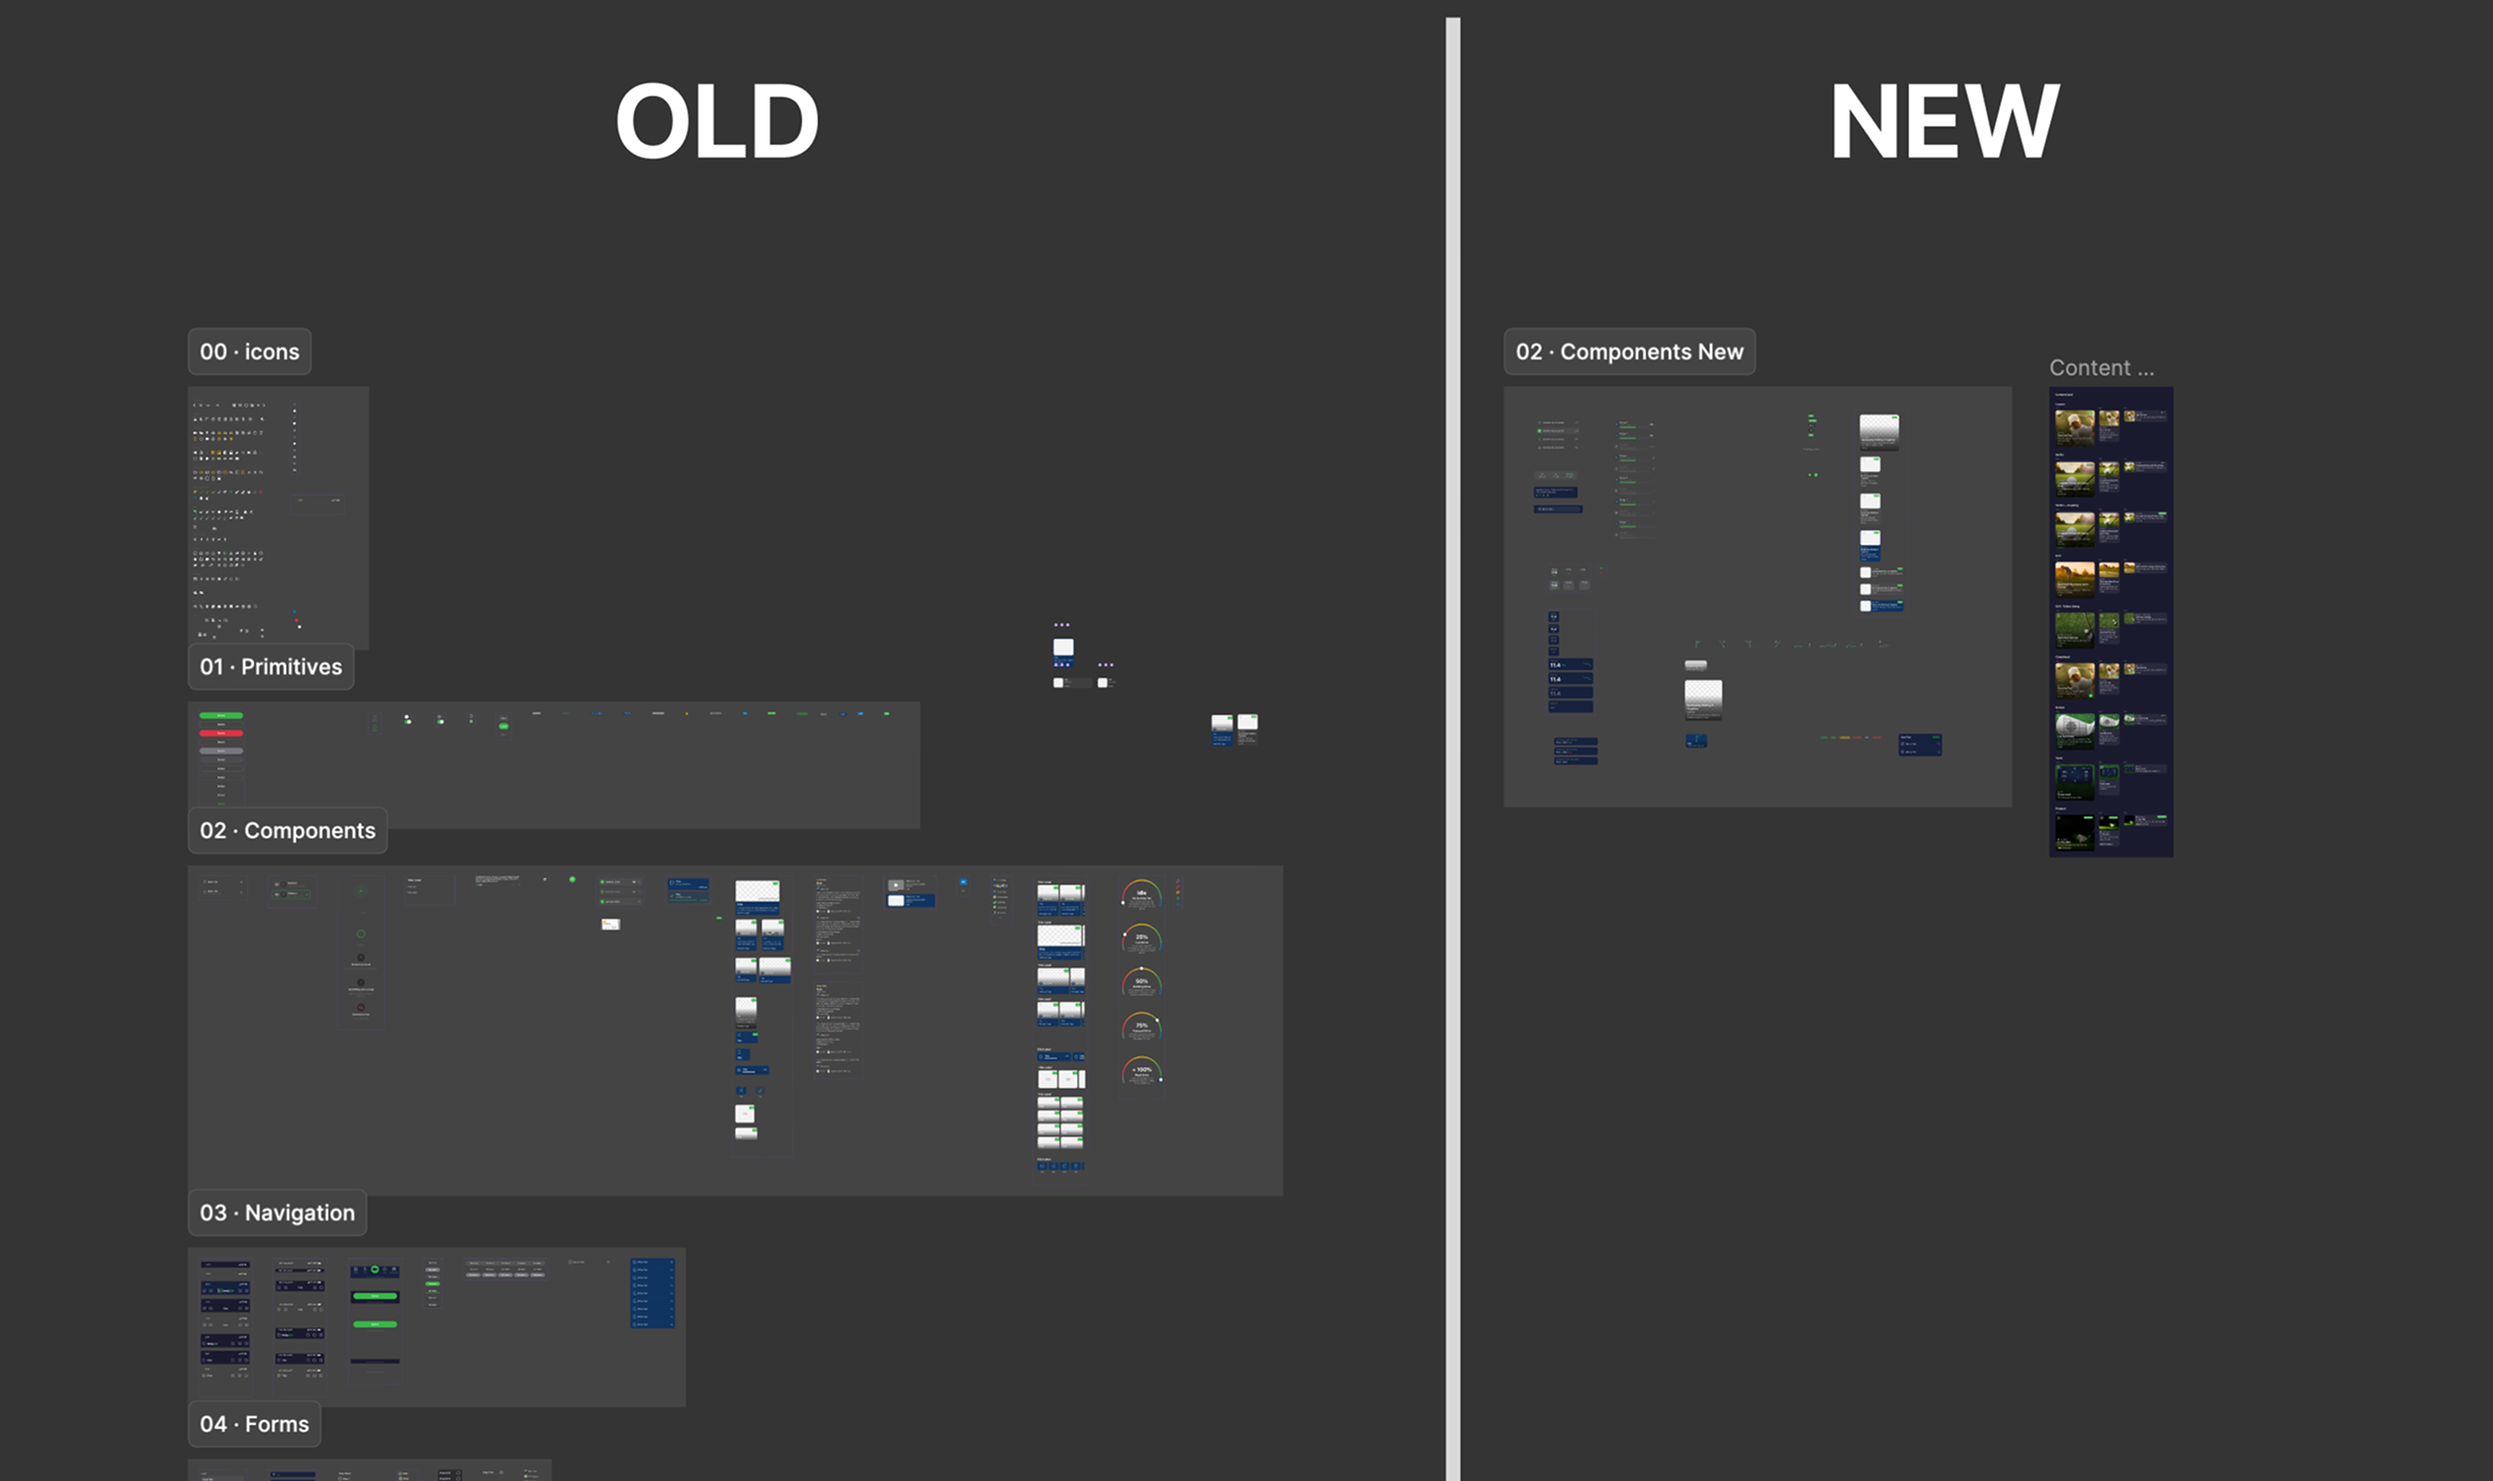
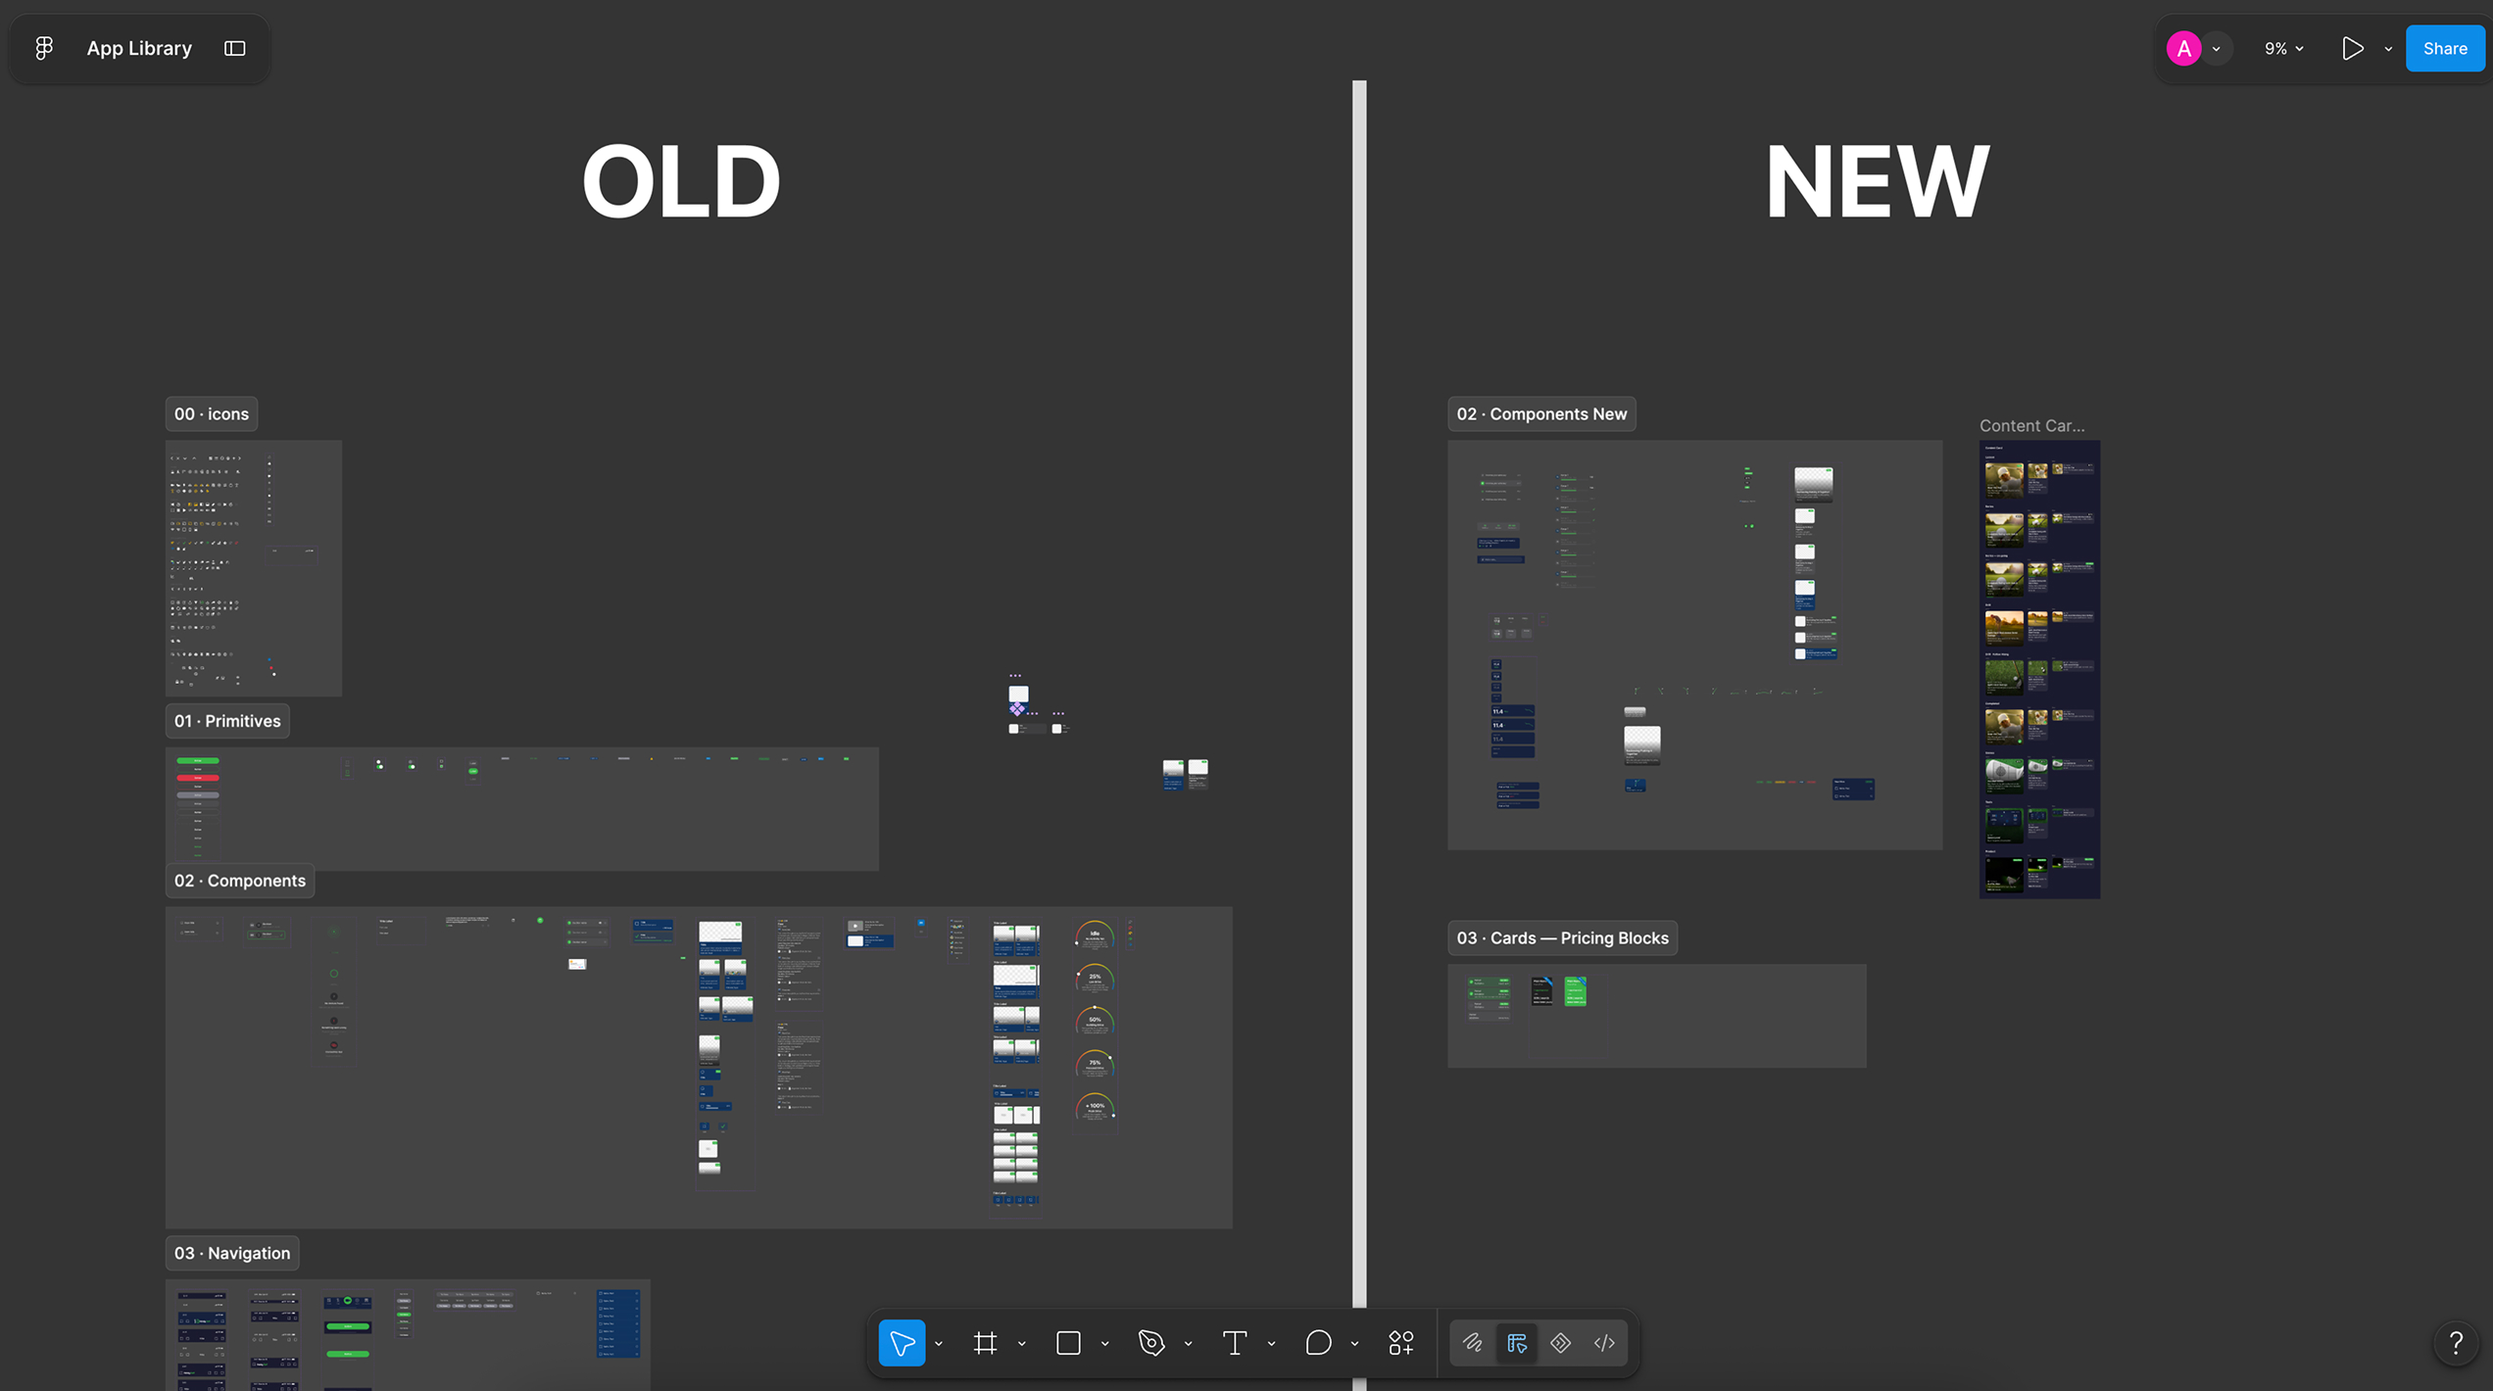
Bring the Handy Golf case up to the Figma file
The coaches decision gained a second movement in the file — "A site built
from connected pieces", the three flows, and two plates under it — at the
same 24px step as the rest of the block, not across a band. Decisions can
now carry that as `parts`, since two blocks would have put 256px between
them.

Also from the file: the ecosystem lede counts its four surfaces, the
activity-card caption recounts the old side, and the paragraph about the
coach website's palettes is gone.

diff --git a/src/content.config.ts b/src/content.config.ts
@@ -29,6 +29,14 @@ const block = z.discriminatedUnion("type", [
     // a lone one only when the block is speaking for a section.
     lede: z.boolean().optional(),
     plates: z.array(plate).default([]),
+    // A second movement of the same decision: its own heading and copy, with the
+    // plates that belong to it. It keeps the block's 24px rhythm instead of opening
+    // a new band, which is what separates two decisions.
+    parts: z.array(z.object({
+      title: z.string(),
+      columns: z.array(z.string()).max(2).default([]),
+      plates: z.array(plate).default([])
+    })).default([]),
     // Two plates can share a row when they are a comparison rather than a sequence.
     platesSideBySide: z.boolean().default(false),
     source: source.optional(),
